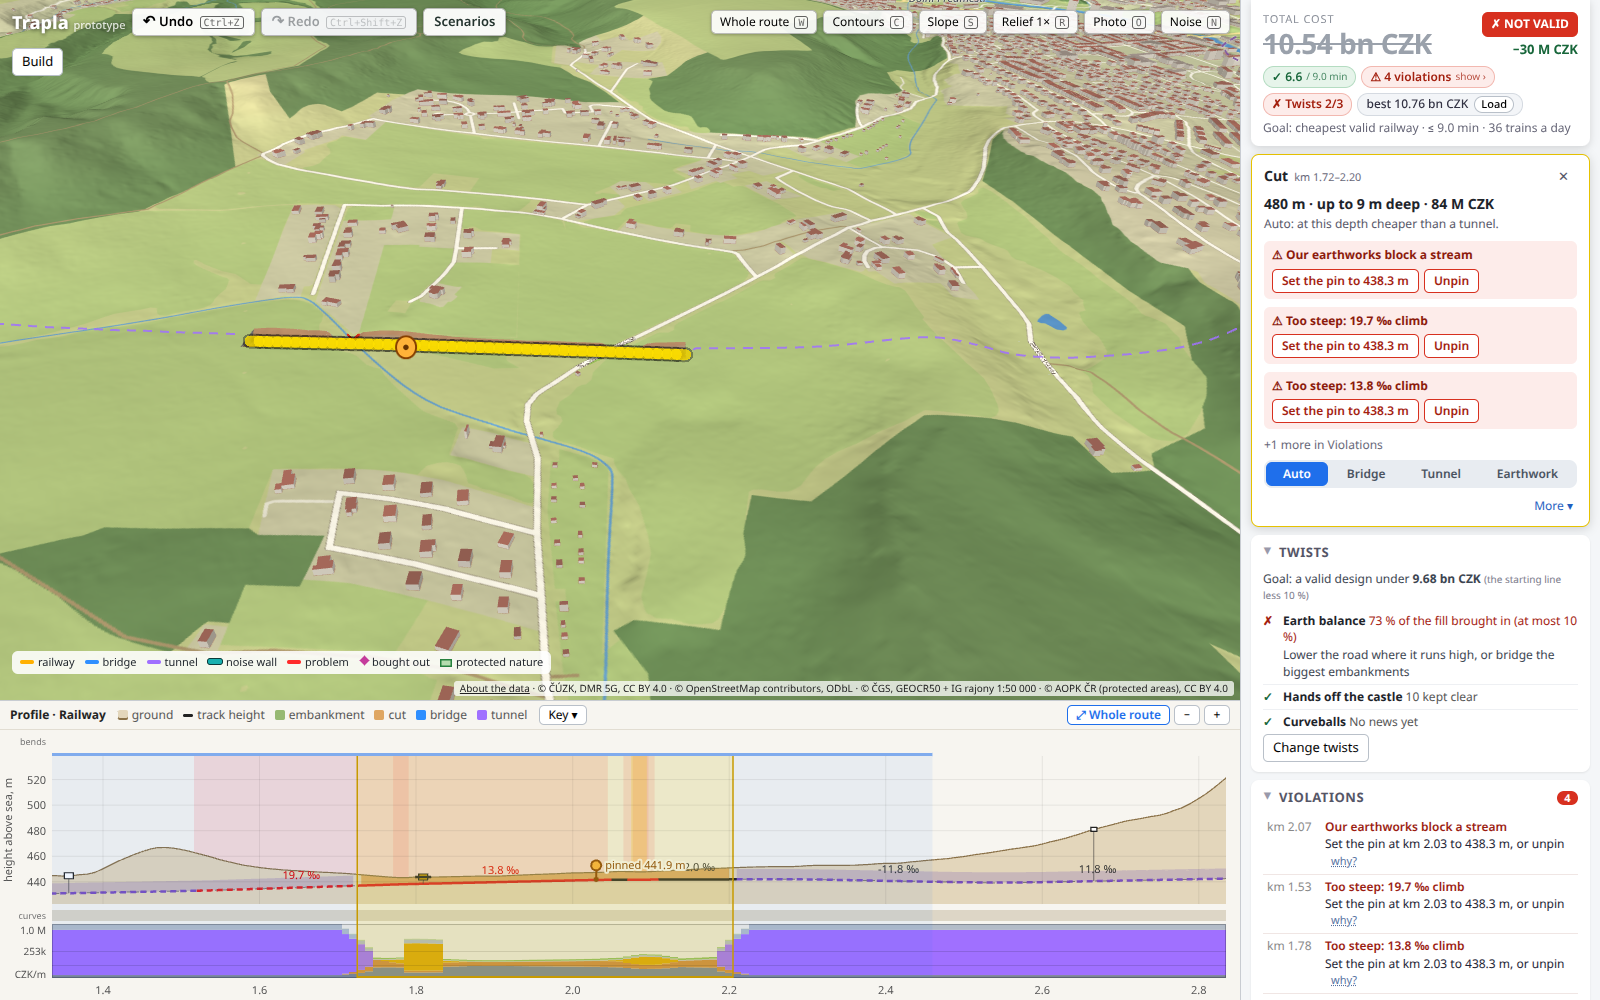
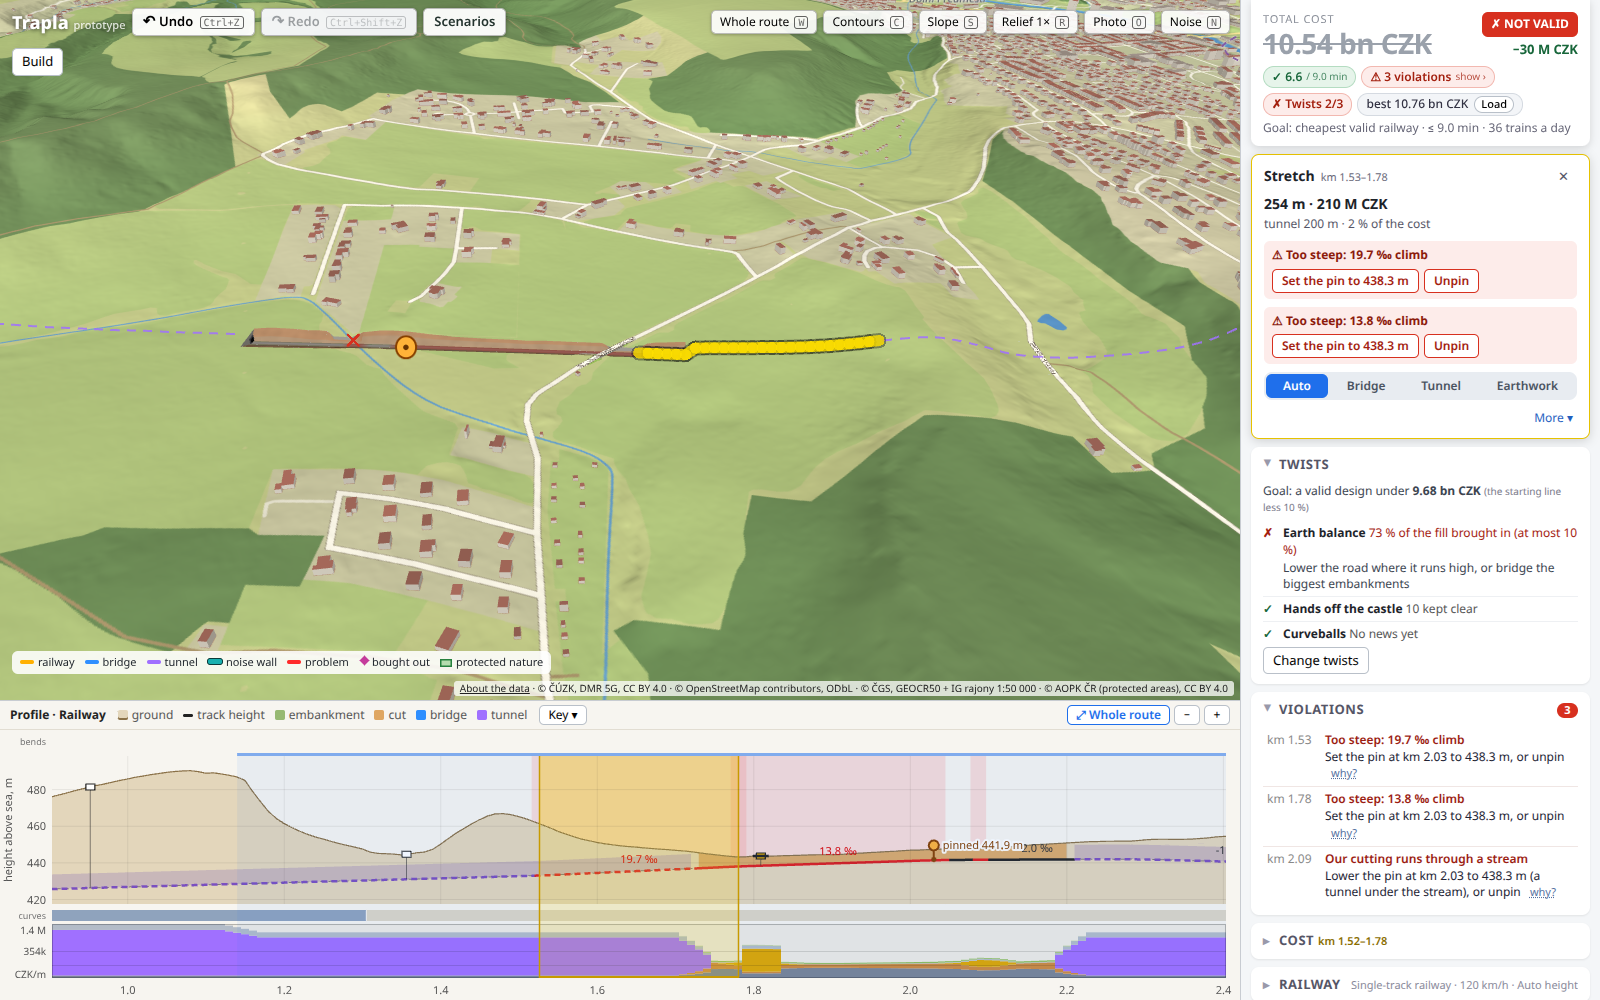
A pin's crossing: one problem per crossing, each way past it
Of the problems at a crossing a pin holds our road too low or high for, one is kept (its clearance before our works on
it and our bridge's span), said as what our road does there ("Our road meets the railway at its level (2.2 m under its
rails)", "Our bridge over the railway is too low (… m over it, it needs … m)"). Its fix lists each way past it the pin
can take within the norm, a button each (evaluate.ts pinWays): over it (our bridge; a culvert for a stream) and, where
something can carry it over us, under it (a road passed under: its bridge over us; a stream: a tunnel under it); a
railway or a river only the raise. A way's height is checked by the strict solve with the other pins as they are; a way
none reaches is not offered. Screenshots 690–695 retaken; rail-drag-locality: the stream at km 2.087 one problem, its way
a tunnel under it. Only the problems' words and buttons change: bills and validity as before.

diff --git a/src/core/grade-pins.ts b/src/core/grade-pins.ts
@@ -170,7 +170,14 @@ export function reachableSuggestions(violations: readonly GradePinViolation[], p
 /** A pin the player set, honoured at a price (`kind` 'steep': the line steeper than the norm over s0–s1 next to it;
  * 'clearance': it misses what it crosses at s0 = s1): `z` is the height Auto reaches there within the norm (null: none
  * found), the fix of the problems there. */
-export interface PinFix { index: number; pin: GradePin; kind: 'steep' | 'clearance'; s0: number; s1: number; z: number | null }
+export interface PinFix { index: number; pin: GradePin; kind: 'steep' | 'clearance'; s0: number; s1: number; z: number | null;
+  /** 'clearance': the ways past the crossing the pin can take within the norm, each a height and what it builds there
+   * (evaluate.ts pinWays; absent: `z` alone) */
+  ways?: { z: number; label: string }[];
+  /** 'clearance': what it misses (a railway, a river, a stream, a motorway …), our line's height over it and the
+   * height it needs there, m */
+  crossing?: { what: string; above: number; need: number };
+}
 
 /**
  * The pins a result honours at a price, each with the height its fix suggests (`reachableSuggestions` with the other
@@ -215,25 +222,51 @@ export const PIN_FIX_NEAR = 60;
  * protected area) */
 const CROSSING_KINDS: ReadonlySet<string> = new Set(['crossing', 'structure', 'footprint']);
 
+/** Of the problems at one crossing a pin's line misses, the one kept (its clearance before our works on it and the
+ * structure there: one problem per crossing, the owner) */
+const CROSSING_RANK: Record<string, number> = { crossing: 0, footprint: 1, structure: 2 };
+const m1 = (x: number) => x.toFixed(1);
+
 /**
- * The problems a player's pin causes where Auto honours it (`fixes`, honouredPinFixes): the fix is the pin's, its
- * height Auto reaches within the norm there or unpin (a button: `target.pin`), and the detail says the pin holds the
- * line. 'steep': the too-steep stretches next to the pin; 'clearance': the problems at the crossing it misses.
+ * The problems a player's pin causes where Auto honours it (`fixes`, honouredPinFixes): the fix is the pin's (each way
+ * past a crossing it can take within the norm, a button each: `target.pin`; or the height Auto reaches; or unpin), and
+ * the detail says the pin holds the line. 'steep': the too-steep stretches next to the pin; 'clearance': the crossing
+ * it misses, one problem for it (its clearance, said as what our road does there: "Our road meets the railway at its
+ * level (2.2 m under its rails)"), the others there (our works on it, our bridge's span) dropped.
  */
 export function applyPinFixes(vs: readonly Violation[], fixes: readonly PinFix[]): Violation[] {
   if (!fixes.length) return [...vs];
-  return vs.map((v) => {
-    if ('pin' in v || v.goal) return v;
-    const f = fixes.find((f) => f.kind === 'steep' ? v.kind === 'gradient' && v.s1 > f.s0 - 1 && v.s0 < f.s1 + 1
-      : CROSSING_KINDS.has(v.kind) && v.s0 - PIN_FIX_NEAR <= f.s0 && f.s0 <= v.s1 + PIN_FIX_NEAR);
-    if (!f) return v;
-    const km = (f.pin.s / 1000).toFixed(2), at = `${f.pin.z.toFixed(1)} m at km ${km}`;
-    const fix = f.z !== null ? `Set the pin at km ${km} to ${f.z.toFixed(1)} m, or unpin` : `Unpin the height at km ${km}`;
+  const fixOf = vs.map((v) => 'pin' in v || v.goal ? undefined : fixes.find((f) => f.kind === 'steep' ? v.kind === 'gradient' && v.s1 > f.s0 - 1 && v.s0 < f.s1 + 1
+    : CROSSING_KINDS.has(v.kind) && v.s0 - PIN_FIX_NEAR <= f.s0 && f.s0 <= v.s1 + PIN_FIX_NEAR));
+  // (one problem per crossing: the best ranked of those it has)
+  const kept = new Map<PinFix, number>();
+  vs.forEach((v, i) => {
+    const f = fixOf[i];
+    if (!f || f.kind !== 'clearance') return;
+    const k = kept.get(f);
+    if (k === undefined || CROSSING_RANK[v.kind] < CROSSING_RANK[vs[k].kind]) kept.set(f, i);
+  });
+  return vs.flatMap((v, i) => {
+    const f = fixOf[i];
+    if (!f) return [v];
+    if (f.kind === 'clearance' && kept.get(f) !== i) return [];
+    const km = (f.pin.s / 1000).toFixed(2), at = `${m1(f.pin.z)} m at km ${km}`;
+    const ways = f.ways ?? (f.z !== null ? [{ z: f.z, label: '' }] : []);
+    const verb = (z: number) => (z > f.pin.z ? 'raise' : 'lower');
+    const fix = !ways.length ? `Unpin the height at km ${km}`
+      : !f.ways ? `Set the pin at km ${km} to ${m1(ways[0].z)} m, or unpin`
+        : `${ways.map((w, q) => `${q ? verb(w.z) : `${verb(w.z).replace(/^./, (c) => c.toUpperCase())} the pin at km ${km}`} ${q ? 'it ' : ''}to ${m1(w.z)} m (${w.label})`).join(', ')}, or unpin`;
     const why = f.kind === 'steep'
       ? `Your height pin (${at}) is out of reach within the limit: Auto builds our road through it as steep as it must be.`
-      : `Your height pin (${at}) holds our road here.${f.z !== null ? ` At ${f.z.toFixed(1)} m it clears this.` : ''}`;
+      : `Your height pin (${at}) holds our road here.${ways.length ? ` At ${m1(ways[0].z)} m it clears this.` : ''}`;
     // (Auto's own line's words, "Auto keeps … within the limit when it can …": the pin is why)
     const detail = (v.detail ?? '').replace(/ Auto keeps the \w+ within the limit when it can;.*$/, '');
-    return { ...v, fix, detail: `${detail ? `${detail} ` : ''}${why}`, target: { ...v.target, pin: { s: f.pin.s, z: f.z } } };
+    // (a railway or a river only bridged: what our road does there)
+    const c = f.crossing, over = v.kind === 'crossing' && v.clearance === 'above' && c && (c.what === 'railway' || c.what === 'river');
+    const title = !over ? v.title : c.above < 0
+      ? `Our road meets the ${c.what} at its level (${m1(-c.above)} m under its ${c.what === 'railway' ? 'rails' : 'water'})`
+      : `Our bridge over the ${c.what} is too low (${m1(c.above)} m over it, it needs ${m1(c.need)} m)`;
+    return [{ ...v, title, fix, detail: `${detail ? `${detail} ` : ''}${why}`,
+      target: { ...v.target, pin: { s: f.pin.s, z: ways[0]?.z ?? null, ...(f.ways ? { ways: f.ways.map((w) => ({ ...w })) } : {}) } } }];
   });
 }

diff --git a/src/core/evaluate.ts b/src/core/evaluate.ts
@@ -52,7 +52,7 @@ import { computeSections, flatSection, type SectionCache } from './sections';
 import { allCut, chooseStructures, cutCoverMask, KIND, TUNNEL_TOO_STEEP, tunnelGrade, wallGapsToBridge, type Run } from './structures';
 import { cutMethodMask, overrideMask, styleMask, type StructureOverride } from './overrides';
 import { BUILTUP_BIT, CLASS_BITS, LC, OOB_BIT, type Terrain } from './terrain';
-import { buildProfile, elevations, type VPI } from './vertical';
+import { buildProfile, elevationAt, elevations, type Profile, type VPI } from './vertical';
 import { planPis, planSpeeds } from './plan-speeds';
 import { abutmentCone, CONE, coneCovers, coneReach, conePavingCost, coneStands, type AbutmentCone, type BridgeEnd } from './abutment-cone';
 import { carryCrossingPrices, keptOwnHeights, rememberFull, stationWindow, windowedPreview } from './preview-window';
@@ -1558,6 +1558,11 @@ function routeGradeLine(ctx: EvalContext, d: Design, opts: EvalOptions, setup: R
     if (strictSolve) pinFixes = honouredPinFixes(d.gradePins!, ap, strictSolve, () => solveAuto({ ...firstOpt!, pins: [] }).vpis,
       (own) => pinClearanceBlame(st.s, ground, firstOpt!, ap.vpis, own, k => solveAuto({ ...firstOpt!, pins: d.gradePins!.filter((_, j) => j !== k) }).vpis),
       (vp) => buildProfile(vp, vlim.crest, vlim.sag), maxGradient);
+    // a crossing a pin holds our road too low or high for: each way past it the pin can take within the norm
+    if (strictSolve && pinFixes.some(f => f.kind === 'clearance')) {
+      const prof = buildProfile(ap.vpis, vlim.crest, vlim.sag);
+      pinFixes = pinFixes.map(f => f.kind === 'clearance' ? { ...f, ...pinWays(f, mustBridge, prof, d.gradePins!, strictSolve) } : f);
+    }
   } else {
     // manual: keep interior VPIs inside the route, pin the ends to the tie-in elevations
     const L = al.length;
@@ -2874,11 +2879,7 @@ function completeDesign(ctx: EvalContext, d: Design, opts: EvalOptions, setup: R
   violations.splice(0, violations.length, ...mergeNearby(violations));
   // the player's pins honoured at a price: the fix of what each costs is the pin (core/grade-pins.ts); one problem per
   // crossing it misses (its clearance, not its bridge's span as well)
-  if (pinFixes.length) {
-    const fixed = applyPinFixes(violations, pinFixes);
-    violations.splice(0, violations.length, ...fixed.filter(v => !(v.target?.pin && v.title.startsWith(SPAN_TOO_LOW)
-      && fixed.some(o => o !== v && o.kind === 'crossing' && o.target?.pin?.s === v.target!.pin!.s && Math.abs(o.s0 - v.s0) <= PIN_FIX_NEAR))));
-  }
+  if (pinFixes.length) violations.splice(0, violations.length, ...applyPinFixes(violations, pinFixes));
   // Messages name what is built: a railway is "our railway", not "our road".
   if (cat.mode === 'railway') for (const v of violations) {
     // "Road too low over the river / railway", the side slopes and Auto's heights (checks.ts) name our own
@@ -2963,6 +2964,37 @@ function routeFinish(ctx: EvalContext, d: Design, opts: EvalOptions, setup: Retu
 /** Where a player's pin holds our road too low or high for a crossing (`fixes` of kind 'clearance'): the crossing's
  * own stretch (PIN_FIX_NEAR either side) and the structure run holding it, chainage ranges; no lift raises the line there
  * (the pin's problem, said there). */
+/**
+ * The ways past the crossing (`crossings`, the nearest within PIN_FIX_NEAR of the fix's) a pin's line misses that the pin
+ * can take within the norm: over it (our bridge, a culvert under us for a stream) and, where something can carry it
+ * over us (a road passed under: its bridge over our cutting; a stream: our tunnel 9 m under its bed; never a railway
+ * or a river), under it. Each the height Auto reaches with the pin there (`strict`, the other pins as they are): the
+ * fix's own suggestion where it lies that way, else the pin moved by what the line misses the crossing's clearance by
+ * that way (×1, 1.5, 2.5: the line moves less than the pin away from it); a way no such height reaches is not offered.
+ */
+function pinWays(f: PinFix, crossings: readonly MustBridge[], prof: Profile, pins: readonly GradePin[],
+  strict: (pins: GradePin[]) => { pinViolations?: readonly GradePinViolation[] }): Pick<PinFix, 'ways' | 'crossing'> {
+  const c = crossings.reduce<MustBridge | undefined>((m, x) => !m || Math.abs(x.s - f.s0) < Math.abs(m.s - f.s0) ? x : m, undefined);
+  if (!c || Math.abs(c.s - f.s0) > PIN_FIX_NEAR) return {};
+  const zc = elevationAt(prof, c.s), stream = c.what === 'watercourse', what = stream ? 'stream' : c.what;
+  const others = pins.filter((_, k) => k !== f.index);
+  const reaches = (z: number) => !strict([...others, { s: f.pin.s, z }]).pinViolations?.some(v => v.pin.index === others.length);
+  const ways: NonNullable<PinFix['ways']> = [];
+  const targets = [{ dir: 1, at: c.g + c.need, label: stream ? 'a culvert under us' : 'our bridge over it' },
+    { dir: -1, at: c.below !== undefined ? c.g - c.below : stream ? c.g - STRUCTURE_RULES.portalDepth : NaN, label: stream ? 'a tunnel under the stream' : `its bridge over us` }];
+  for (const { dir, at, label } of targets) {
+    if (Number.isNaN(at)) continue;
+    let z: number | null = f.z !== null && Math.sign(f.z - f.pin.z) === dir ? f.z : null;
+    const shift = at - zc + dir * 0.5;
+    if (z === null && shift * dir > 0) for (const factor of [1, 1.5, 2.5]) {
+      const x = (dir > 0 ? Math.ceil : Math.floor)((f.pin.z + factor * shift) * 10) / 10;
+      if (reaches(x)) { z = x; break; }
+    }
+    if (z !== null) ways.push({ z, label });
+  }
+  return { ways, crossing: { what, above: zc - c.g, need: c.need } };
+}
+
 function pinHeld(fixes: readonly PinFix[], runs: readonly { s0: number; s1: number; kind: number }[]): [number, number][] {
   const out: [number, number][] = [];
   for (const f of fixes) if (f.kind === 'clearance') {

diff --git a/tests/rail-drag-locality.test.ts b/tests/rail-drag-locality.test.ts
@@ -57,9 +57,12 @@ describe.skipIf(!['meta.json', 'transport.json.gz', 'overlays.json', 'height.i16
     const z = out.violations[0].target!.pin!.z!;
     expect(z).toBeLessThan(440.44);
     for (const v of out.violations) {
-      expect(v.target?.pin).toEqual({ s: 2030, z });
-      expect(v.fix).toBe(`Set the pin at km 2.03 to ${z.toFixed(1)} m, or unpin`);
+      expect(v.target?.pin?.z).toBe(z);
+      // (the stream: one problem, its way past it a tunnel under it; a culvert over it is out of the norm's reach)
+      expect(v.fix).toBe(v.kind === 'gradient' ? `Set the pin at km 2.03 to ${z.toFixed(1)} m, or unpin`
+        : `Lower the pin at km 2.03 to ${z.toFixed(1)} m (a tunnel under the stream), or unpin`);
     }
+    expect(out.violations.filter(v => v.kind !== 'gradient').map(v => v.title)).toEqual(['Our cutting runs through a stream']);
     expect(run(pinned(z)).routes['route:railway'].legacy!.violations).toEqual([]);
   }, 120_000);
 
@@ -69,9 +72,11 @@ describe.skipIf(!['meta.json', 'transport.json.gz', 'overlays.json', 'height.i16
     const r0 = run(fixture('rail-kralovec')).routes['route:railway'].legacy!, out = run(pinned(439.5)).routes['route:railway'].legacy!;
     expect(Math.abs(atS(out, 2030) - 439.5)).toBeLessThanOrEqual(0.5);
     local(r0, out);
-    expect(out.violations.map(v => v.title).sort()).toEqual(['Our cutting runs through a stream', 'Our earthworks block a stream']);
-    const z = out.violations[0].target!.pin!.z!;
-    for (const v of out.violations) { expect(v.s0).toBeGreaterThan(2000); expect(v.s1).toBeLessThan(2150); expect(v.target?.pin).toEqual({ s: 2030, z }); }
+    // one problem for the stream (not our earthworks on it as well), its way past it a tunnel under it
+    expect(out.violations.map(v => v.title)).toEqual(['Our cutting runs through a stream']);
+    const [v] = out.violations, z = v.target!.pin!.z!;
+    expect(v.s0).toBeGreaterThan(2000); expect(v.s1).toBeLessThan(2150);
+    expect(v.target?.pin).toEqual({ s: 2030, z, ways: [{ z, label: 'a tunnel under the stream' }] });
     expect(run(pinned(z)).routes['route:railway'].legacy!.violations).toEqual([]);
   }, 120_000);
 });

diff --git a/src/ui/inspector.ts b/src/ui/inspector.ts
@@ -486,7 +486,9 @@ export class Inspector {
     // a problem a pin of the player's causes where Auto honours it: the height Auto reaches there within the norm, or unpin
     const held = t?.pin;
     if (held && d.profileMode === 'auto' && (d.gradePins ?? []).some((p) => Math.abs(p.s - held.s) < 0.1)) {
-      if (held.z !== null) btn(`data-fix-pin="${held.s},${held.z}"`, `Set the pin to ${held.z.toFixed(1)} m`);
+      const pinZ = d.gradePins!.find((p) => Math.abs(p.s - held.s) < 0.1)!.z;
+      if (held.ways) for (const w of held.ways) btn(`data-fix-pin="${held.s},${w.z}"`, `${w.z > pinZ ? 'Raise' : 'Lower'} to ${w.z.toFixed(1)} m: ${esc(w.label)}`);
+      else if (held.z !== null) btn(`data-fix-pin="${held.s},${held.z}"`, `Set the pin to ${held.z.toFixed(1)} m`);
       btn(`data-fix-unpin="${held.s},${held.s}"`, 'Unpin');
     }
     // By hand: the player's height pins it is about (the points of this result: the design's own)

diff --git a/src/core/checks.ts b/src/core/checks.ts
@@ -86,7 +86,9 @@ export interface ViolationTarget {
   smallest?: number;
   /** Auto: the player's height pin (its chainage) that causes it; set to `z` (a height Auto reaches within the norm,
    * null: none found) or unpinned, it goes */
-  pin?: { s: number; z: number | null };
+  pin?: { s: number; z: number | null;
+    /** past a crossing: each way the pin can take (a height, what it builds there), a button each */
+    ways?: { z: number; label: string }[] };
 }
 
 /** one-line form for logs and scripts */

diff --git a/PLAN.md b/PLAN.md
@@ -2728,15 +2728,30 @@ and no lift raises the structure there (a lift against the pin cannot succeed, a
 it: I/35, a stream bridge at km 1.19 "too low" 0.7 km away). No remedy is invented to meet the pin: the crossing stays as
 the line leaves it (a railway in our cut, a stream in our cut), billed as built.
 
+**One problem per crossing, each way past it** (the owner's polish): of the problems at a crossing a pin's line misses,
+one is kept (its clearance before our works on it and our bridge's span there), said as what our road does there: "Our
+road meets the railway at its level (2.2 m under its rails)", "Our bridge over the railway is too low (3.1 m over it, it
+needs 7.5 m)"; a stream's or a road's keeps its own title. Its fix lists each way past the crossing the pin can take
+within the norm (`evaluate.ts` `pinWays`), a button each: over it ("Raise to 260.7 m: our bridge over it", a culvert
+under us for a stream) and, where something can carry it over us, under it (a motorway passed under: "its bridge over
+us"; a stream: "a tunnel under the stream", our line 9 m under its bed). A railway or a river is never carried over our
+road by the engine, so it offers only the raise and says nothing of lowering. A way's height is the fix's own suggestion
+where that lies that way, else the pin moved by what the line misses that way's clearance by (× 1, 1.5, 2.5), checked by
+the strict solve with the other pins as they are; a way none reaches is not offered (the Královec stream at km 2.087:
+only "Lower to 438.3 m: a tunnel under the stream", a culvert 8 m up is out of the norm's reach). Screenshots 690–692
+retaken.
+
 **Played** (`node scripts/pin-honour-shots.mjs`, screenshots 690–696): I/35 starter 5.63 bn VALID; the road line dragged
 in the profile at km 0.29 and 256.0 typed on the pin's card: 5.36 bn NOT VALID, our road 2.2 m under the railway at km
-0.47 in a cut: "Our earthworks cover a railway" and "Road too low over the railway", each "Set the pin at km 0.29 to
-260.7 m, or unpin"; the grade as the starter's beyond km 0.9; the button: 6.07 bn VALID (690–693). The Královec railway
+0.47 in a cut: "Our road meets the railway at its level (2.2 m under its rails) · Raise the pin at km 0.29 to 260.7 m
+(our bridge over it), or unpin" (before the polish: two problems there, "Our earthworks cover a railway" and "Road too
+low over the railway"); the grade as the starter's beyond km 0.9; the button: 6.07 bn VALID (690–693). The Královec railway
 pin 441.9 m at km 2.03 (4 m over the climb at its 12.5 ‰ limit): 10.54 bn NOT VALID, "Too steep: 19.7 ‰ climb" km
 1.53–1.78 and 13.8 ‰ km 1.78–2.03 (the crest at the pin takes height, so the climb is not one grade), the stream at km
-2.087 through the cut (two problems), all "Set the pin at km 2.03 to 438.3 m"; the grade as Auto's own outside km
+2.087 through the cut ("Lower the pin … to 438.3 m (a tunnel under the stream)"), the steep ones "Set the pin at km 2.03
+to 438.3 m"; the grade as Auto's own outside km
 1.5–2.6 (694, 695); 100 m higher: left out, 10.76 bn, one problem at the pin (696). The pin 439.5 m there: 10.62 bn,
-the stream's two problems only. Edit-locality (new QA cases: the owner's I/35 pin, the Královec stream pin): the
+the stream's problem only. Edit-locality (new QA cases: the owner's I/35 pin, the Královec stream pin): the
 Královec pin +5 m at km 4.2 10.69 → 10.77 bn (its plain line left the stream at km 2.08 in the cut 2 km away: honoured
 locally, too steep 21.9 / 19.5 ‰ at km 3.7–4.2), D11 −8 m at km 7.2 3.66 → 3.68 bn (honoured: two bridge spans too
 low); nothing beyond 10 km changes in any suite. Frozen bills and the twists' references unchanged.
@@ -2755,7 +2770,7 @@ nearer. A span's ends keep the line's own heights (on the solve's other grid the
 are the player's (checked, reported); the span's ends are not pins. A suggestion's check (`pinStrict`) keeps the old rule.
 
 **Known issues:** an honoured pin's line may cost less than Auto's own where it gives up a structure (I/35 −331 M: no
-bridge over the railway): not valid, the bill as built. A crossing in a cut can carry two problems with the same fix. A
+bridge over the railway): not valid, the bill as built. A
 pinned evaluation with such a pin solves more (Auto's line without it, the spans, up to six suggestion solves per pin, in
 every pass of the evaluation): the Královec project with the pin 441.9 m or 439.5 m ≈ 3.0–3.4 s, without a pin ≈ 0.5 s,
 main's left-out rule 1.7–3.0 s; a reachable pin (438.3 m) ≈ 0.6 s as before; drag-perf pin mode within its budgets.

diff --git a/README.md b/README.md
@@ -586,7 +586,7 @@ stream at km 2.09 in an open cut: out of reach, the tunnel kept](docs/screenshot
 [now gone on release](docs/screenshots/485-d35-zero-turn-bend-dropped.png); [a 2° neighbour the curve fit leaves out, gone on
 release too](docs/screenshots/492-d35-left-out-bend-dropped-on-release.png), [one left out that stays: its card](docs/screenshots/493-d35-left-out-bend-card.png).
 A pin the player set is honoured (cost model 59, `node scripts/pin-honour-shots.mjs`): [the owner's I/35 pin 256.0 m at km
-0.29: our road through it, too low for the Liberec railway, said there with the pin as the fix](docs/screenshots/690-i35-pin-honoured-railway-too-low.png)
+0.29: our road meets the Liberec railway at its level, one problem there, its fix the pin: raise it for our bridge](docs/screenshots/690-i35-pin-honoured-railway-too-low.png)
 ([the problem's card](docs/screenshots/691-i35-pin-railway-problem-card.png), [the pin's: at a cost](docs/screenshots/692-i35-pin-card-at-a-cost.png)),
 [its button: 260.7 m, VALID](docs/screenshots/693-i35-pin-set-by-button-valid.png); [the Královec pin 441.9 m at km 2.03, out of
 reach of the climb: steeper next to it, said there](docs/screenshots/694-kralovec-pin-honoured-steep.png) ([its card](docs/screenshots/695-kralovec-pin-steep-card.png)),
